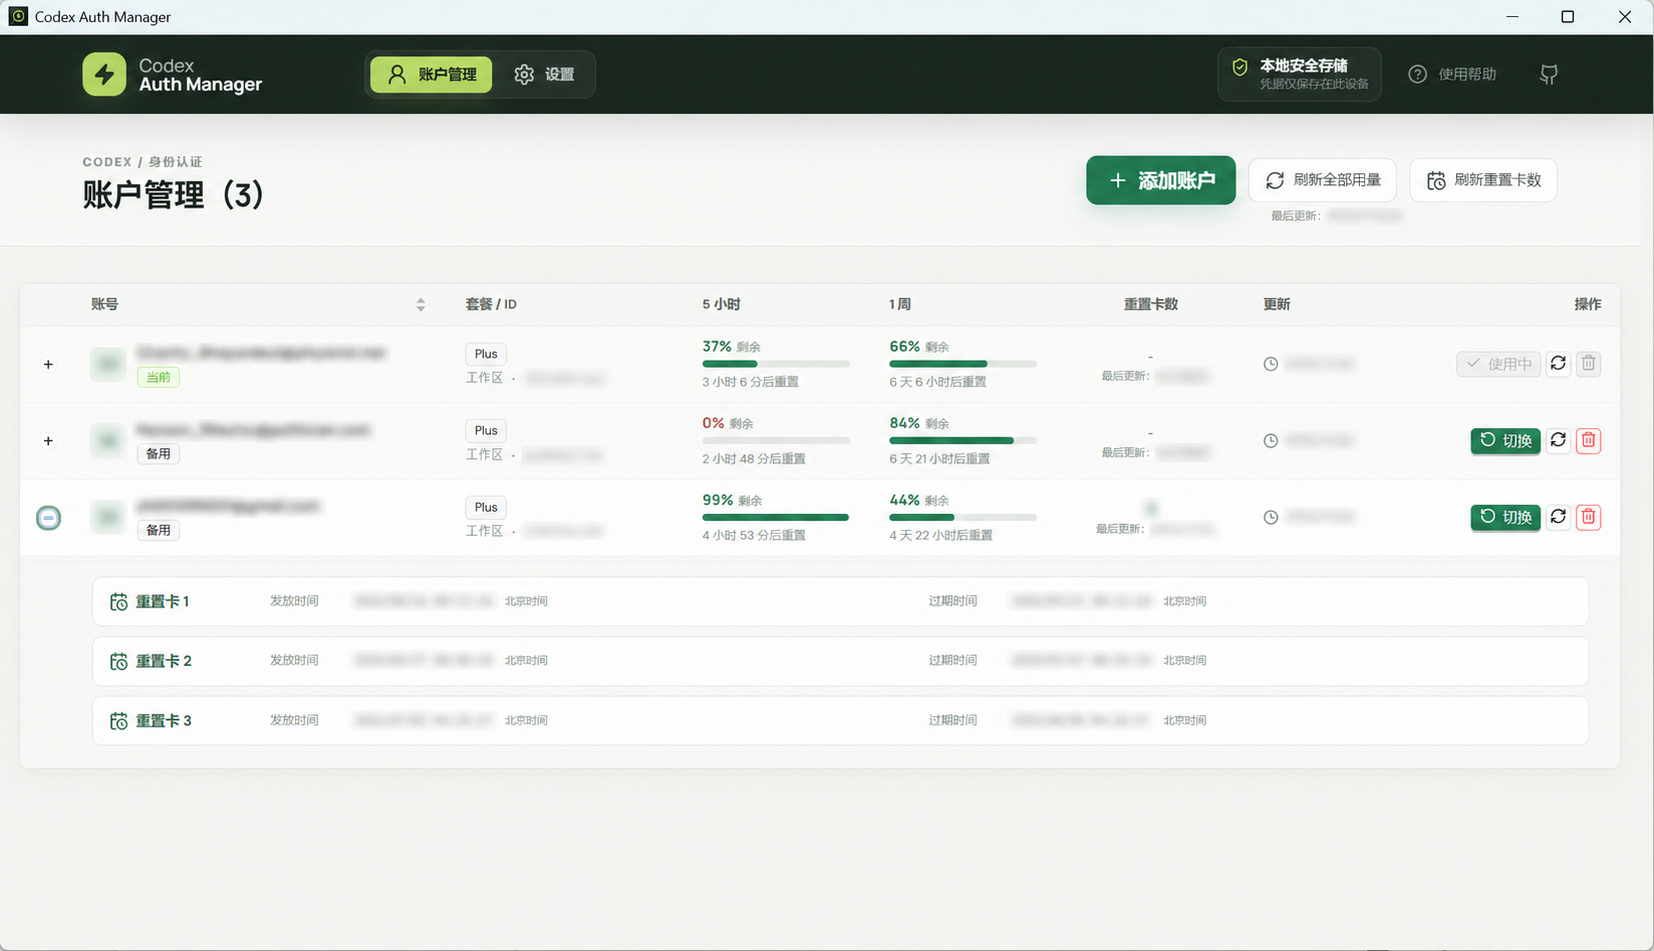
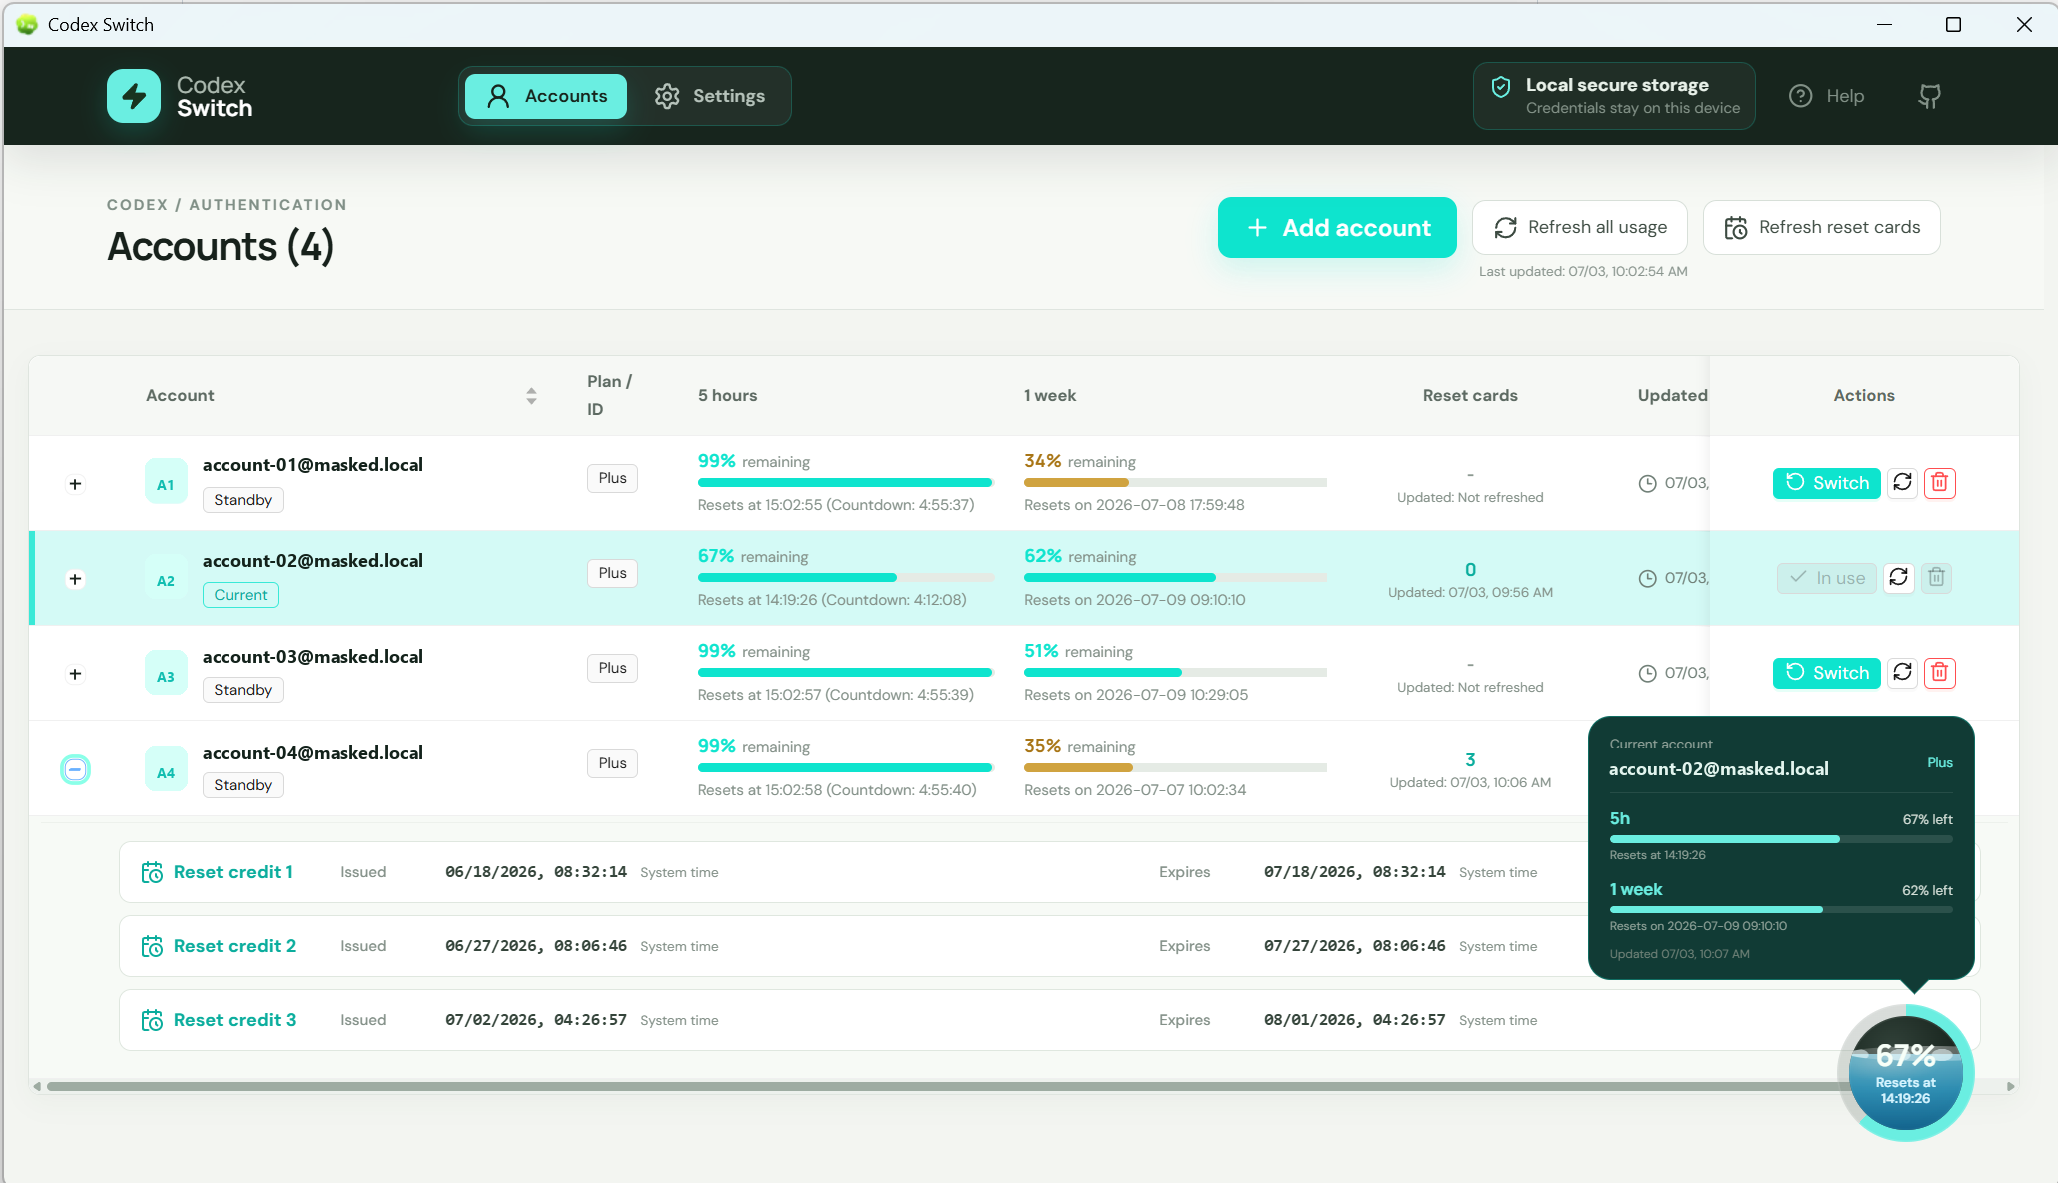
docs: update

diff --git a/README.md b/README.md
@@ -6,6 +6,8 @@ Codex Switch is a local-first Tauri 2 desktop application for signing in to, sto
 
 ![Codex Switch account dashboard](docs/assets/codex-switch-dashboard.png)
 
+![Codex Switch settings page](docs/assets/codex-switch-settings.png)
+
 ## Features
 
 - Reuses the Codex CLI OAuth 2.0 + PKCE login flow